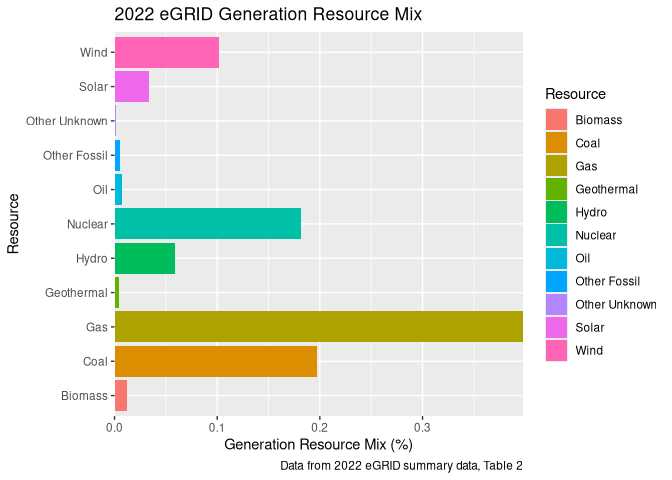
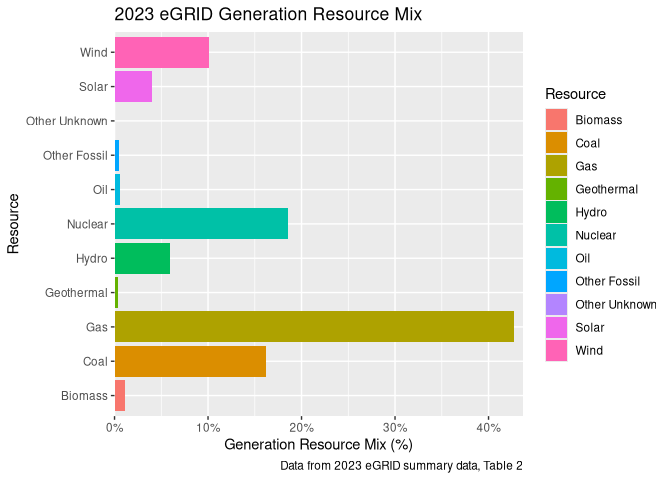
update README example code chunks

diff --git a/README.md b/README.md
@@ -25,25 +25,16 @@ devtools::install_github("usepa/ggcapdthemes", build_vignettes = TRUE)
 
 ## Example
 
-Here we use the `resource_mix` dataset from eGRID 2018-2022 Summary
+Here we use the `resource_mix` dataset from eGRID 2018-2023 Summary
 data. We show the barplot using ggplot2 and and after applying the
-`scale_color_capd_discrete` and `theme_capd` functions.
+`scale_fill_capd_discrete` and `theme_capd` functions.
 
 ``` r
 library(ggplot2)
 library(ggcapdthemes)
 
-## build ggplot barplot
-p_bar <- ggplot(data = resource_mix[resource_mix$year == 2022,]) +
-  geom_bar(mapping = aes(x = generation_resource_mix, y = resource_label, fill = resource_label),
-           stat = 'identity') + 
-  labs(x = 'Generation Resource Mix (%)', y = 'Resource', fill = 'Resource', 
-       title = '2022 eGRID Generation Resource Mix',
-       caption = 'Data from 2022 eGRID summary data, Table 2') +
-  scale_x_continuous(expand = c(0,0))
-
 ## original chart
-p_bar
+gg_ex_bar
 ```
 
 <img src="man/figures/README-example-1.png" width="100%" />
@@ -51,7 +42,7 @@ p_bar
 ``` r
 
 ## with capd theme
-p_bar + theme_capd(orientation = 'vert')
+gg_ex_bar + theme_capd(plot_direction = 'vert')
 ```
 
 <img src="man/figures/README-example-2.png" width="100%" />
@@ -59,9 +50,9 @@ p_bar + theme_capd(orientation = 'vert')
 ``` r
 
 ## with fuel type color palette and capd theme
-p_bar +
+gg_ex_bar +
   scale_fill_capd_discrete(palette = 'fuel_type') +
-  theme_capd(orientation = 'vert') 
+  theme_capd(plot_direction  = 'vert', legend_position = 'none') 
 ```
 
 <img src="man/figures/README-example-3.png" width="100%" />
